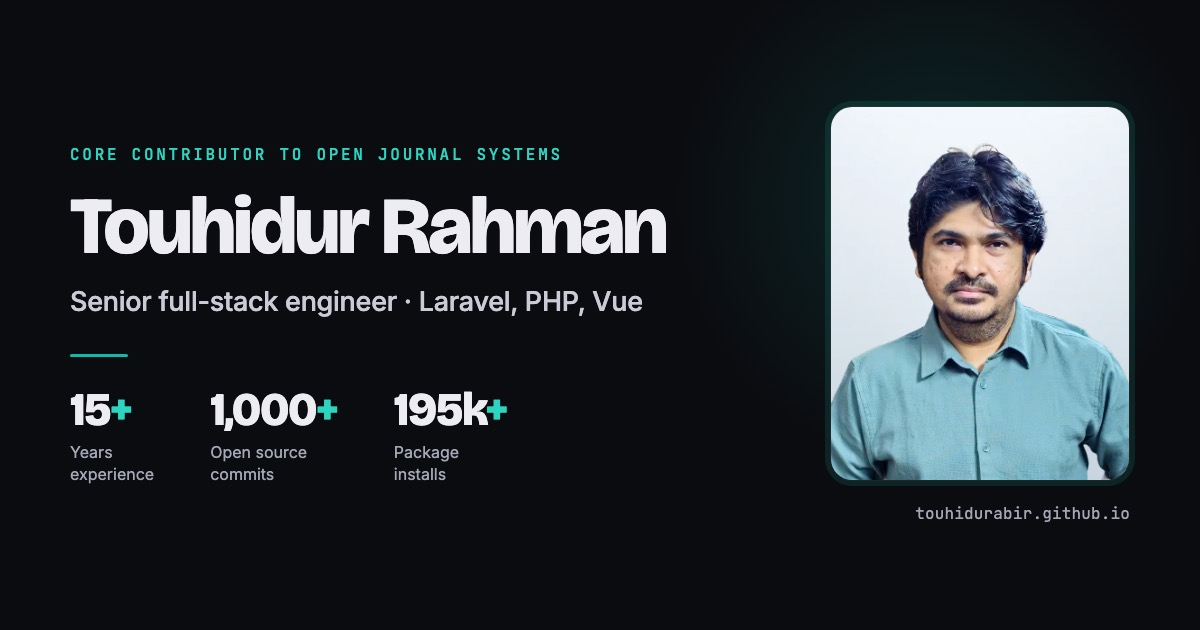
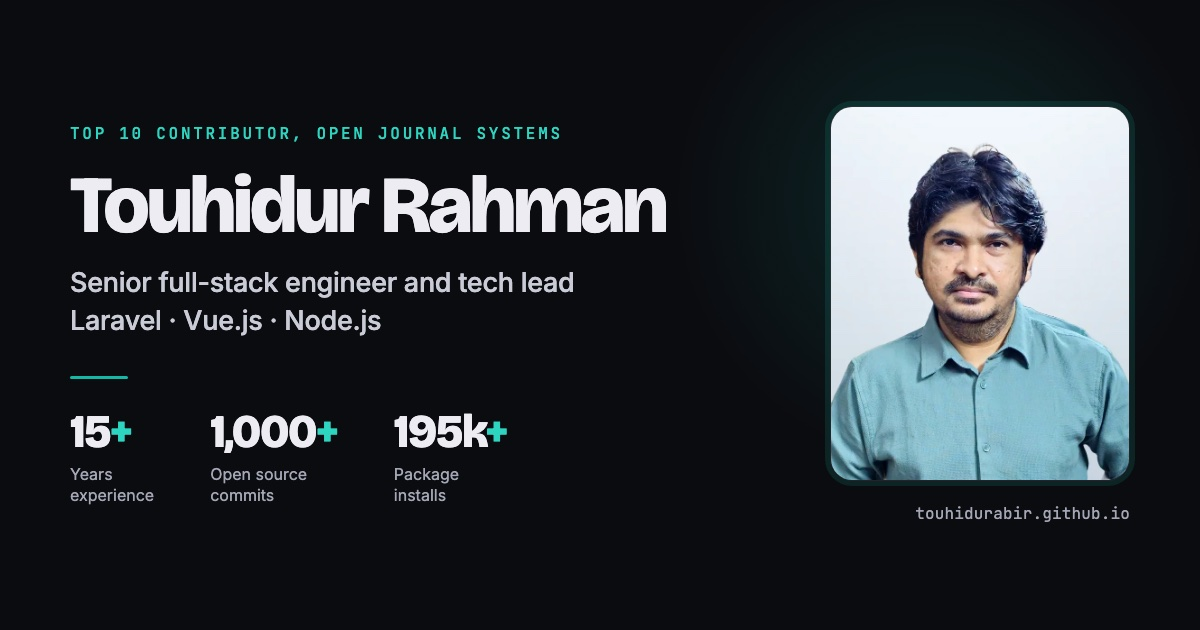
Adopt the résumé headline, summary meta and availability line
Headline is now "Senior Full-Stack Engineer and Tech Lead | Laravel,
Vue.js, Node.js" in both titles, the Open Graph and Twitter tags, the
JSON-LD jobTitle, the hero, the CV masthead and the print footer.
Meta descriptions and the Person description follow the résumé
summary, and dateModified moves to 2026-11-04.

The hero and CV vitals carry the résumé's availability line (senior,
lead and full-stack roles, remote, full-time or contract). The rotating
hero tagline drops "I build" for "Building", and its OJS phrase, which
read as present-tense work, gives way to the workflow engine.

img/og-card.jpg is rebuilt from the card template with the new
headline and a "Top 10 contributor" eyebrow, since PKP is now a past
role.

Changed region(s): [[0.0617, 0.181, 0.555, 0.8143], [0.1542, 0.6032, 0.2775, 0.8143], [0.3083, 0.6032, 0.4317, 0.8143]]

diff --git a/cv.html b/cv.html
@@ -6,9 +6,9 @@
 	<meta name="theme-color" content="#0b0c10" media="(prefers-color-scheme: dark)">
 	<meta name="theme-color" content="#f6f5f1" media="(prefers-color-scheme: light)">
 
-	<title>CV | Touhidur Rahman, Senior Full-Stack Engineer, PHP, Laravel, Vue, TypeScript, Node.js</title>
+	<title>CV | Touhidur Rahman | Senior Full-Stack Engineer and Tech Lead</title>
 
-	<meta name="description" content="Full CV of Touhidur Rahman: 15 years of software engineering, lead architect at Dentall Manager, core contributor to Open Journal Systems from 2022 to 2026, maintainer of 15 Laravel packages.">
+	<meta name="description" content="The full CV of Touhidur Rahman, senior full-stack engineer and tech lead. 15+ years in PHP, Laravel, Vue.js and Node.js, lead architect at Dentall Manager, core contributor to Open Journal Systems from 2022 to 2026.">
 	<meta name="author" content="Touhidur Rahman">
 	<meta name="robots" content="index, follow, max-image-preview:large, max-snippet:-1">
 	<link rel="canonical" href="https://touhidurabir.github.io/cv.html">
@@ -16,11 +16,11 @@
 
 	<meta property="og:type" content="profile">
 	<meta property="og:site_name" content="Touhidur Rahman">
-	<meta property="og:title" content="CV | Touhidur Rahman, Senior Full-Stack Engineer, PHP, Laravel, Vue, TypeScript, Node.js">
-	<meta property="og:description" content="Full CV of Touhidur Rahman: 15 years of software engineering, lead architect at Dentall Manager, core contributor to Open Journal Systems from 2022 to 2026, maintainer of 15 Laravel packages.">
+	<meta property="og:title" content="CV | Touhidur Rahman | Senior Full-Stack Engineer and Tech Lead">
+	<meta property="og:description" content="The full CV of Touhidur Rahman, senior full-stack engineer and tech lead. 15+ years in PHP, Laravel, Vue.js and Node.js, lead architect at Dentall Manager, core contributor to Open Journal Systems from 2022 to 2026, and 15 Laravel packages with 195k+ installs.">
 	<meta property="og:url" content="https://touhidurabir.github.io/cv.html">
 	<meta property="og:image" content="https://touhidurabir.github.io/img/og-card.jpg">
-	<meta property="og:image:alt" content="Touhidur Rahman, senior full-stack engineer and core contributor to Open Journal Systems. 15+ years experience, 1,000+ open source commits, 195k+ package installs.">
+	<meta property="og:image:alt" content="Touhidur Rahman, senior full-stack engineer and tech lead, top 10 all-time contributor to Open Journal Systems. 15+ years experience, 1,000+ open source commits, 195k+ package installs.">
 	<meta property="og:image:width" content="1200">
 	<meta property="og:image:height" content="630">
 	<meta property="og:image:type" content="image/jpeg">
@@ -29,8 +29,8 @@
 	<meta property="profile:username" content="touhidurabir">
 
 	<meta name="twitter:card" content="summary_large_image">
-	<meta name="twitter:title" content="CV | Touhidur Rahman, Senior Full-Stack Engineer, PHP, Laravel, Vue, TypeScript, Node.js">
-	<meta name="twitter:description" content="15 years of software engineering. Core contributor to Open Journal Systems from 2022 to 2026. Maintainer of 15 Laravel packages.">
+	<meta name="twitter:title" content="CV | Touhidur Rahman | Senior Full-Stack Engineer and Tech Lead">
+	<meta name="twitter:description" content="Senior full-stack engineer and tech lead with 15+ years in PHP, Laravel, Vue.js and Node.js. Core contributor to Open Journal Systems from 2022 to 2026.">
 	<meta name="twitter:image" content="https://touhidurabir.github.io/img/og-card.jpg">
 
 	<link rel="icon" type="image/webp" href="img/me-2.webp?v=2">
@@ -61,8 +61,8 @@
 				"@id": "https://touhidurabir.github.io/#person",
 				"name": "Touhidur Rahman",
 				"alternateName": ["touhidurabir", "Md. Touhidur Rahman"],
-				"jobTitle": "Senior Full-Stack Engineer",
-				"description": "Senior full-stack engineer with 15 years of experience building production web applications in PHP, Laravel, Vue, TypeScript and Node.js. Core contributor to Open Journal Systems at the Public Knowledge Project from 2022 to 2026, and maintainer of 15 open-source Laravel packages.",
+				"jobTitle": "Senior Full-Stack Engineer and Tech Lead",
+				"description": "Full-stack engineer and tech lead with 15+ years building and scaling production web applications in PHP, Laravel, TypeScript, Vue.js, React and Node.js. Core contributor to Open Journal Systems at the Public Knowledge Project from 2022 to 2026, and maintainer of 15 open-source Laravel packages with 195k+ installs.",
 				"url": "https://touhidurabir.github.io/",
 				"image": "https://touhidurabir.github.io/img/me-1.webp",
 				"email": "mailto:abircse06@gmail.com",
@@ -102,7 +102,7 @@
 					"@type": "Occupation",
 					"name": "Lead Architect & Developer",
 					"occupationLocation": { "@type": "Place", "name": "Netherlands (Remote)" },
-					"skills": "PHP, Laravel, Vue, TypeScript, Node.js"
+					"skills": "Laravel, Vue.js, Node.js, PHP, TypeScript"
 				},
 				"sameAs": [
 					"https://github.com/touhidurabir",
@@ -116,9 +116,9 @@
 				"@type": "WebPage",
 				"@id": "https://touhidurabir.github.io/cv.html#webpage",
 				"url": "https://touhidurabir.github.io/cv.html",
-				"name": "CV | Touhidur Rahman, Senior Full-Stack Engineer, PHP, Laravel, Vue, TypeScript, Node.js",
+				"name": "CV | Touhidur Rahman | Senior Full-Stack Engineer and Tech Lead",
 				"inLanguage": "en",
-				"dateModified": "2026-10-01",
+				"dateModified": "2026-11-04",
 				"isPartOf": { "@id": "https://touhidurabir.github.io/#website" },
 				"about": { "@id": "https://touhidurabir.github.io/#person" },
 				"mainEntity": { "@id": "https://touhidurabir.github.io/#person" }
@@ -171,7 +171,7 @@
 				<div>
 					<p class="cv-eyebrow">Curriculum Vitae</p>
 					<h1>Touhidur Rahman</h1>
-					<p class="cv-role">Senior Full-Stack Engineer &middot; PHP, Laravel, Vue, TypeScript, Node.js</p>
+					<p class="cv-role">Senior Full-Stack Engineer and Tech Lead &middot; Laravel, Vue.js, Node.js</p>
 
 					<div class="cv-lede">
 						<p>I am a full-stack software engineer based in Dhaka, Bangladesh, with 15 years of professional experience building production web applications and leading engineering teams since 2017. I lead the architecture of a multi-tenant ERP for Dutch dental and medical practices, spent four years as a core developer on Open Journal Systems at the Public Knowledge Project, and maintain 15 open-source Laravel packages.</p>
@@ -192,11 +192,12 @@
 				<aside class="cv-vitals">
 					<div class="contact-links">
 						<span class="row"><span class="k">Status</span><span class="v live">Available for hire</span></span>
-						<span class="row"><span class="k">Location</span><span class="v">Dhaka, Bangladesh</span></span>
-						<span class="row"><span class="k">Time zone</span><span class="v">Asia/Dhaka, UTC+6</span></span>
+						<span class="row"><span class="k">Open to</span><span class="v">Senior, lead and full-stack roles. Remote, full-time or contract.</span></span>
+						<span class="row"><span class="k">Location</span><span class="v">Dhaka, Bangladesh (UTC+6)</span></span>
 						<a href="mailto:abircse06@gmail.com"><span class="k">Email</span><span class="v">abircse06@gmail.com</span></a>
 						<a href="https://github.com/touhidurabir" target="_blank" rel="noopener"><span class="k">GitHub</span><span class="v">github.com/touhidurabir</span></a>
 						<a href="https://www.linkedin.com/in/touhidur" target="_blank" rel="noopener"><span class="k">LinkedIn</span><span class="v">linkedin.com/in/touhidur</span></a>
+						<a href="https://packagist.org/packages/touhidurabir/" target="_blank" rel="noopener"><span class="k">Packagist</span><span class="v">packagist.org/packages/touhidurabir</span></a>
 					</div>
 				</aside>
 			</div>
@@ -514,7 +515,7 @@
 						</dl>
 					</div>
 				</div>
-				<p class="print-only">Touhidur Rahman &middot; Senior Full-Stack Engineer &middot; PHP, Laravel, Vue, TypeScript, Node.js &middot; abircse06@gmail.com &middot; Live CV at https://touhidurabir.github.io/cv.html &middot; github.com/touhidurabir &middot; linkedin.com/in/touhidur</p>
+				<p class="print-only">Touhidur Rahman &middot; Senior Full-Stack Engineer and Tech Lead &middot; Laravel, Vue.js, Node.js &middot; abircse06@gmail.com &middot; Live CV at https://touhidurabir.github.io/cv.html &middot; github.com/touhidurabir &middot; linkedin.com/in/touhidur</p>
 			</div>
 		</section>
 	</main>

diff --git a/index.html b/index.html
@@ -6,9 +6,9 @@
 	<meta name="theme-color" content="#0b0c10" media="(prefers-color-scheme: dark)">
 	<meta name="theme-color" content="#f6f5f1" media="(prefers-color-scheme: light)">
 
-	<title>Touhidur Rahman | Senior Full-Stack Engineer, PHP, Laravel, Vue, TypeScript, Node.js</title>
+	<title>Touhidur Rahman | Senior Full-Stack Engineer and Tech Lead | Laravel, Vue.js, Node.js</title>
 
-	<meta name="description" content="Senior full-stack engineer with 15 years in PHP, Laravel, Vue, TypeScript and Node.js. Top 10 contributor to Open Journal Systems. Open to remote roles and the right role abroad.">
+	<meta name="description" content="Touhidur Rahman is a senior full-stack engineer and tech lead with 15+ years in PHP, Laravel, Vue.js and Node.js, and a top 10 all-time contributor to Open Journal Systems.">
 	<meta name="author" content="Touhidur Rahman">
 	<meta name="robots" content="index, follow, max-image-preview:large, max-snippet:-1">
 	<link rel="canonical" href="https://touhidurabir.github.io/">
@@ -16,11 +16,11 @@
 
 	<meta property="og:type" content="profile">
 	<meta property="og:site_name" content="Touhidur Rahman">
-	<meta property="og:title" content="Touhidur Rahman | Senior Full-Stack Engineer, PHP, Laravel, Vue, TypeScript, Node.js">
-	<meta property="og:description" content="15 years building production web applications. Core developer on Open Journal Systems from 2022 to 2026, which runs 58,000+ journals across 156 countries. Maintainer of 15 Laravel packages with 195k+ installs. Open to remote roles worldwide, and to the right on-site role abroad with visa sponsorship.">
+	<meta property="og:title" content="Touhidur Rahman | Senior Full-Stack Engineer and Tech Lead | Laravel, Vue.js, Node.js">
+	<meta property="og:description" content="Full-stack engineer and tech lead with 15+ years building production web applications in PHP, Laravel, TypeScript, Vue.js, React and Node.js. Top 10 all-time contributor to Open Journal Systems, and 15 Laravel packages with 195k+ installs. Open to senior, lead and full-stack roles, remote, full-time or contract.">
 	<meta property="og:url" content="https://touhidurabir.github.io/">
 	<meta property="og:image" content="https://touhidurabir.github.io/img/og-card.jpg">
-	<meta property="og:image:alt" content="Touhidur Rahman, senior full-stack engineer and core contributor to Open Journal Systems. 15+ years experience, 1,000+ open source commits, 195k+ package installs.">
+	<meta property="og:image:alt" content="Touhidur Rahman, senior full-stack engineer and tech lead, top 10 all-time contributor to Open Journal Systems. 15+ years experience, 1,000+ open source commits, 195k+ package installs.">
 	<meta property="og:image:width" content="1200">
 	<meta property="og:image:height" content="630">
 	<meta property="og:image:type" content="image/jpeg">
@@ -29,8 +29,8 @@
 	<meta property="profile:username" content="touhidurabir">
 
 	<meta name="twitter:card" content="summary_large_image">
-	<meta name="twitter:title" content="Touhidur Rahman | Senior Full-Stack Engineer, PHP, Laravel, Vue, TypeScript, Node.js">
-	<meta name="twitter:description" content="15 years building production web applications. Core developer on Open Journal Systems from 2022 to 2026. Maintainer of 15 Laravel packages with 195k+ installs.">
+	<meta name="twitter:title" content="Touhidur Rahman | Senior Full-Stack Engineer and Tech Lead | Laravel, Vue.js, Node.js">
+	<meta name="twitter:description" content="Full-stack engineer and tech lead with 15+ years in PHP, Laravel, Vue.js and Node.js. Top 10 all-time contributor to Open Journal Systems. 15 Laravel packages with 195k+ installs.">
 	<meta name="twitter:image" content="https://touhidurabir.github.io/img/og-card.jpg">
 
 	<link rel="icon" type="image/webp" href="img/me-2.webp?v=2">
@@ -61,8 +61,8 @@
 				"@id": "https://touhidurabir.github.io/#person",
 				"name": "Touhidur Rahman",
 				"alternateName": ["touhidurabir", "Md. Touhidur Rahman"],
-				"jobTitle": "Senior Full-Stack Engineer",
-				"description": "Senior full-stack engineer with 15 years of experience building production web applications in PHP, Laravel, Vue, TypeScript and Node.js. Core contributor to Open Journal Systems at the Public Knowledge Project from 2022 to 2026, and maintainer of 15 open-source Laravel packages.",
+				"jobTitle": "Senior Full-Stack Engineer and Tech Lead",
+				"description": "Full-stack engineer and tech lead with 15+ years building and scaling production web applications in PHP, Laravel, TypeScript, Vue.js, React and Node.js. Core contributor to Open Journal Systems at the Public Knowledge Project from 2022 to 2026, and maintainer of 15 open-source Laravel packages with 195k+ installs.",
 				"url": "https://touhidurabir.github.io/",
 				"image": "https://touhidurabir.github.io/img/me-1.webp",
 				"email": "mailto:abircse06@gmail.com",
@@ -149,9 +149,9 @@
 				"@type": "ProfilePage",
 				"@id": "https://touhidurabir.github.io/#profilepage",
 				"url": "https://touhidurabir.github.io/",
-				"name": "Touhidur Rahman | Senior Full-Stack Engineer, PHP, Laravel, Vue, TypeScript, Node.js",
+				"name": "Touhidur Rahman | Senior Full-Stack Engineer and Tech Lead | Laravel, Vue.js, Node.js",
 				"inLanguage": "en",
-				"dateModified": "2026-10-01",
+				"dateModified": "2026-11-04",
 				"isPartOf": { "@id": "https://touhidurabir.github.io/#website" },
 				"about": { "@id": "https://touhidurabir.github.io/#person" },
 				"mainEntity": { "@id": "https://touhidurabir.github.io/#person" }
@@ -260,12 +260,12 @@
 				<div class="hero-grid">
 					<div>
 						<p class="hero-kicker">Touhidur Rahman</p>
-						<h1>Senior <span style="white-space:nowrap">full-stack</span> <em>engineer.</em></h1>
-						<p class="hero-stack">PHP, Laravel, Vue, TypeScript, Node.js</p>
-						<p class="hero-sub">Open to remote roles worldwide, and to the right on-site role abroad with visa sponsorship.</p>
+						<h1>Senior <span style="white-space:nowrap">full-stack</span> engineer <em>and tech lead.</em></h1>
+						<p class="hero-stack">Laravel, Vue.js, Node.js</p>
+						<p class="hero-sub">Open to senior, lead and full-stack roles. Remote, full-time or contract.</p>
 						<div class="rotator" aria-live="polite">
-							<span class="muted">I build</span>
-							<span class="word" data-rotate='["APIs and data layers.","multi-tenant SaaS platforms.","open source used by 58,000+ journals.","Laravel packages installed 195k+ times."]'>APIs and data layers.</span>
+							<span class="muted">Building</span>
+							<span class="word" data-rotate='["APIs and data layers.","multi-tenant SaaS platforms.","workflow engines and queues.","Laravel packages, 195k+ installs."]'>APIs and data layers.</span>
 							<span class="caret" aria-hidden="true"></span>
 						</div>
 						<div class="hero-actions">
@@ -282,14 +282,14 @@
 						</div>
 						<div class="hero-meta">
 							<span class="live">Available</span>
-							<span>Dhaka, Bangladesh</span>
+							<span>Dhaka, Bangladesh (UTC+6)</span>
 							<span>abircse06@gmail.com</span>
 						</div>
 					</div>
 
 					<figure class="portrait reveal" data-delay="1">
 						<img src="img/me-1.webp" alt="Touhidur Rahman" width="420" height="525" fetchpriority="high">
-						<figcaption class="portrait-tag"><b>Touhidur Rahman</b><span>PHP · Laravel · Vue</span></figcaption>
+						<figcaption class="portrait-tag"><b>Touhidur Rahman</b><span>Laravel · Vue · Node</span></figcaption>
 					</figure>
 				</div>
 
